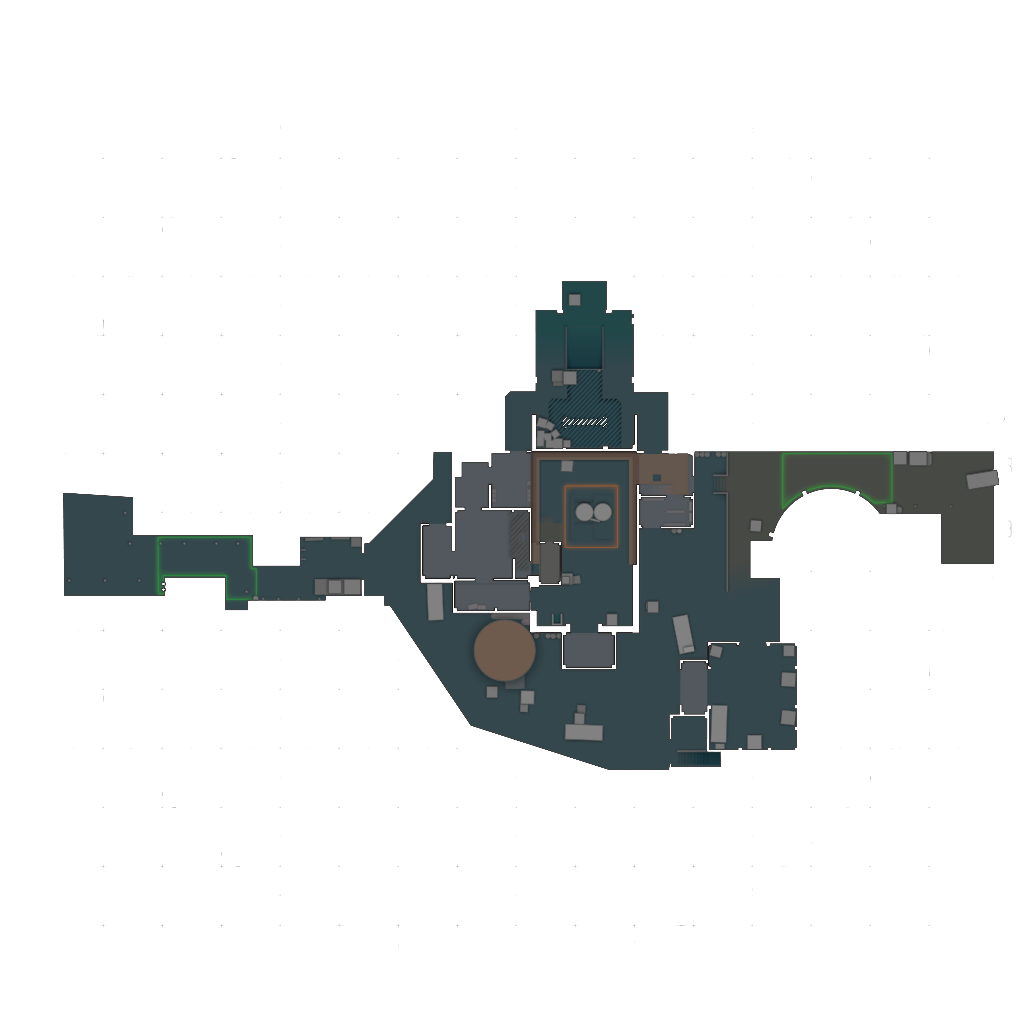
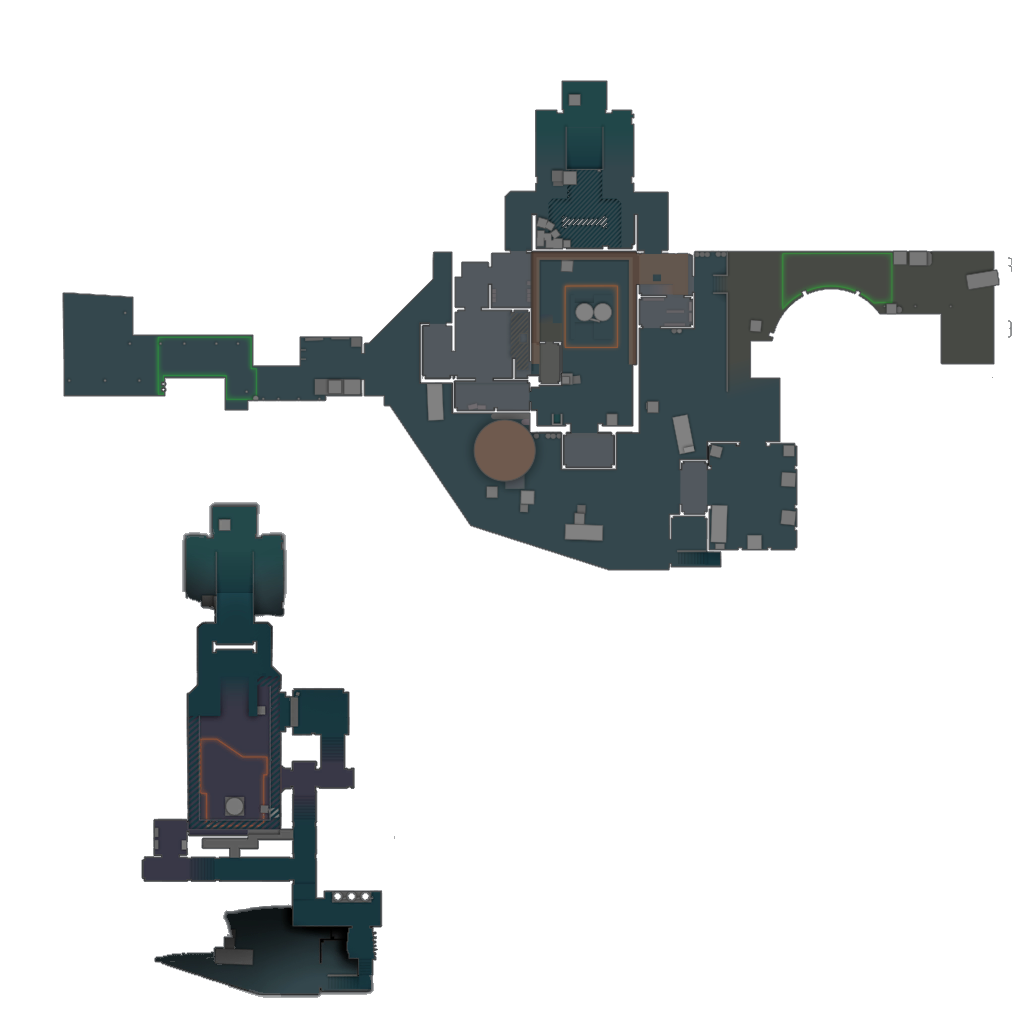
chore: updated radars

Changed region(s): [[0.0625, 0.0625, 1.0, 1.0]]

diff --git a/src/utils/radar.ts b/src/utils/radar.ts
@@ -1,15 +1,30 @@
 import { overviews } from "@/config/radar";
 
 export const gameUnitsToRadar = (
-  x: number,
-  y: number,
+  pos: Position,
   map: string,
   size: number = 1024
 ) => {
   if (!overviews[map]) return null;
   const config = overviews[map];
+  const { offsets } = config;
+  const offsetX = offsets
+    ? pos.z < offsets.lowerz
+      ? offsets.lower.x
+      : offsets.upper.x
+    : 0;
+  const offsetY = offsets
+    ? pos.z < offsets.lowerz
+      ? offsets.lower.y
+      : offsets.upper.y
+    : 0;
+  const offsetZoom = offsets ? offsets.zoom : 1;
   return {
-    x: ((x - config.pos_x) / config.scale) * (size / 1024),
-    y: ((config.pos_y - y) / config.scale) * (size / 1024),
+    x:
+      ((pos.x - config.pos_x) / config.scale + offsetX) *
+      ((size / 1024) * offsetZoom),
+    y:
+      ((config.pos_y - pos.y) / config.scale + offsetY) *
+      ((size / 1024) * offsetZoom),
   };
 };

diff --git a/src/config/radar.ts b/src/config/radar.ts
@@ -28,7 +28,18 @@ export const overviews: Overviews = {
     pos_x: -3453,
     pos_y: 2887,
     scale: 7,
-    lowerz: -495,
+    offsets: {
+      lowerz: -495,
+      zoom: 1,
+      lower: {
+        x: -350,
+        y: 225,
+      },
+      upper: {
+        x: 0,
+        y: -200,
+      },
+    },
   },
   de_overpass: {
     pos_x: -4831,
@@ -39,6 +50,25 @@ export const overviews: Overviews = {
     pos_x: -3168,
     pos_y: 1762,
     scale: 4,
-    lowerz: 11700,
+    offsets: {
+      lowerz: 11700,
+      zoom: 0.8,
+      lower: {
+        x: 538,
+        y: 367,
+      },
+      upper: {
+        x: -53,
+        y: -86,
+      },
+    },
+  },
+  de_train: {
+    pos_x: -2308,
+    pos_y: 2078,
+    scale: 4.082077,
+    // offsets: {
+    //   lowerz: -50,
+    // }
   },
 };

diff --git a/src/types/overviews.d.ts b/src/types/overviews.d.ts
@@ -3,6 +3,17 @@ interface Overviews {
     pos_x: number;
     pos_y: number;
     scale: number;
-    lowerz?: number;
+    offsets?: {
+      lowerz: number;
+      zoom: number;
+      lower: {
+        x: number;
+        y: number;
+      };
+      upper: {
+        x: number;
+        y: number;
+      };
+    };
   };
 }
